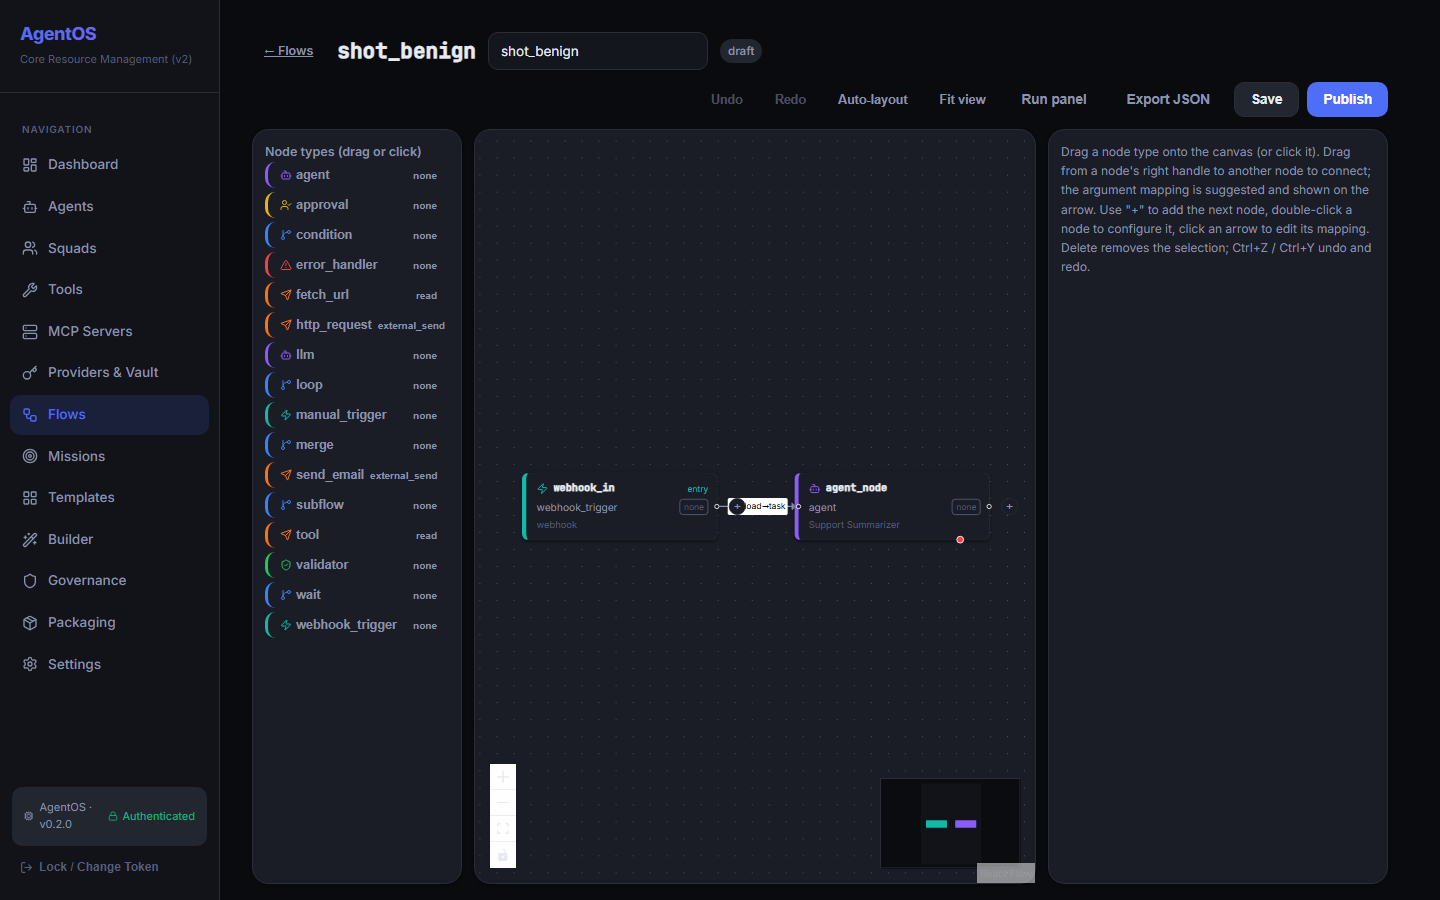
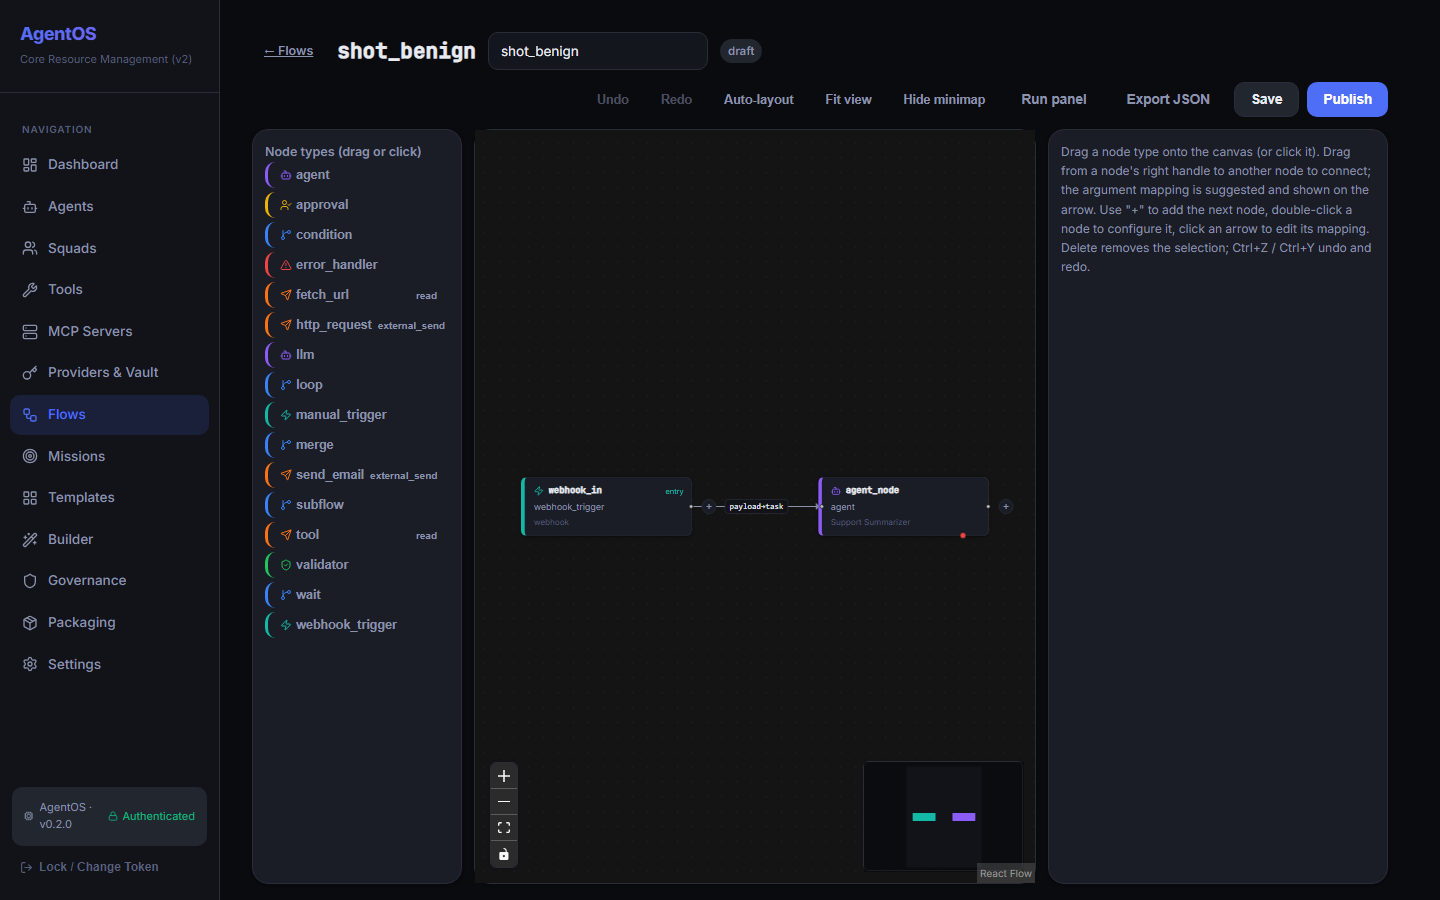
fix(2.4b): builder polish and clearer unpinned-recipient message
Fit view (padding 0.2, max zoom 100%) after nodes are measured on open, after auto-layout and after a publish refusal; dark edge-label chips sized to the text; wider auto-layout spacing so labels are not covered; minimap 160x110 bottom-right with margin and a Hide/Show toggle; zoom controls in the app's dark theme; side-effect badge hidden for 'none' (palette and cards). rules.py: an unpinned email recipient now reads 'the recipient is not fixed (not pinned)' instead of 'external recipient None' (test added). After screenshots retaken. Checks (MOCK): pytest test_static_bypasses + test_v2_node_specs 22 passed; ui lint/build clean; builder Playwright 14 passed.

diff --git a/ui/src/pages/FlowEditor.tsx b/ui/src/pages/FlowEditor.tsx
@@ -8,7 +8,7 @@ import { useCallback, useEffect, useMemo, useRef, useState } from 'react'
 import { Link, useParams, useSearchParams } from 'react-router-dom'
 import { useQuery } from '@tanstack/react-query'
 import {
-  ReactFlow, ReactFlowProvider, Background, Controls, MiniMap, applyEdgeChanges, applyNodeChanges, useReactFlow,
+  ReactFlow, ReactFlowProvider, Background, Controls, MiniMap, applyEdgeChanges, applyNodeChanges, useNodesInitialized, useReactFlow,
   type Connection, type EdgeChange, type NodeChange,
 } from '@xyflow/react'
 import '@xyflow/react/dist/style.css'
@@ -87,6 +87,7 @@ function Editor() {
   const [runStatuses, setRunStatuses] = useState<Record<string, NodeRunStatus>>({})
   const onRunStatuses = useCallback((s: Record<string, NodeRunStatus>) => setRunStatuses(s), [])
   const history = useRef(new History<GraphState>())
+  const [showMinimap, setShowMinimap] = useState(true)
   const [, setHistoryTick] = useState(0)
 
   useEffect(() => {
@@ -107,7 +108,19 @@ function Editor() {
     setLoops(f.loops ?? {})
     setStatus(f.status)
     setLoaded(true)
+    setPendingFit(true)
   }, [loaded, isNew, specsQ.data, flowQ.data, specs])
+
+  // Centre the flow at a readable size (never zoomed in beyond 100%) once xyflow has measured the nodes.
+  const nodesInitialized = useNodesInitialized()
+  const [pendingFit, setPendingFit] = useState(false)
+  useEffect(() => {
+    if (pendingFit && nodesInitialized) {
+      setPendingFit(false)
+      // Short delay so a canvas resize (e.g. the violation table appearing) is measured first.
+      window.setTimeout(() => void rf.fitView({ padding: 0.2, maxZoom: 1 }), 40)
+    }
+  }, [pendingFit, nodesInitialized, rf])
 
   // ---- history (undo/redo) --------------------------------------------------
   const graphRef = useRef<GraphState>({ nodes, edges, entrypoint, loops })
@@ -313,7 +326,7 @@ function Editor() {
   }
   const doLayout = () => {
     commit(g => ({ ...g, nodes: autoLayout(g.nodes, g.edges) }))
-    window.setTimeout(() => rf.fitView({ padding: 0.2 }), 50)
+    setPendingFit(true)
   }
 
   // ---- save / publish / export ----------------------------------------------
@@ -371,6 +384,7 @@ function Editor() {
       if (err instanceof PublishRefusedError) {
         setViolations(err.violations)
         setMessage({ kind: 'error', text: `Publish refused: ${err.violations.length} security violation(s).` })
+        setPendingFit(true) // the violation table shrinks the canvas: keep the highlighted path in view
       } else {
         setMessage({ kind: 'error', text: `Publish failed: ${apiErrorMessage(err)}` })
       }
@@ -429,7 +443,10 @@ function Editor() {
           <button className="btn btn-ghost btn-sm" data-testid="undo" onClick={undo} disabled={!history.current.canUndo} title="Undo (Ctrl+Z)">Undo</button>
           <button className="btn btn-ghost btn-sm" data-testid="redo" onClick={redo} disabled={!history.current.canRedo} title="Redo (Ctrl+Y)">Redo</button>
           <button className="btn btn-ghost btn-sm" data-testid="auto-layout" onClick={doLayout} disabled={!nodes.length}>Auto-layout</button>
-          <button className="btn btn-ghost btn-sm" data-testid="fit-view" onClick={() => rf.fitView({ padding: 0.2 })}>Fit view</button>
+          <button className="btn btn-ghost btn-sm" data-testid="fit-view" onClick={() => rf.fitView({ padding: 0.2, maxZoom: 1 })}>Fit view</button>
+          <button className="btn btn-ghost btn-sm" data-testid="toggle-minimap" aria-pressed={showMinimap} onClick={() => setShowMinimap(v => !v)}>
+            {showMinimap ? 'Hide minimap' : 'Show minimap'}
+          </button>
           <button className="btn btn-ghost" data-testid="toggle-run-panel" onClick={() => setMode(m => (m === 'edit' ? 'run' : 'edit'))}>
             {mode === 'edit' ? 'Run panel' : 'Back to editing'}
           </button>
@@ -493,16 +510,20 @@ function Editor() {
               // Fit only when opening an existing flow; a new canvas stays at zoom 1 so drops land under the cursor.
               fitView={!isNew}
               fitViewOptions={{ maxZoom: 1, padding: 0.2 }}
+              colorMode="dark"
             >
               <Background />
               <Controls />
-              <MiniMap
-                pannable
-                zoomable
-                style={{ background: 'var(--bg-surface)', border: '1px solid var(--border)', width: 140, height: 90 }}
-                maskColor="rgba(0,0,0,0.35)"
-                nodeColor={n => CATEGORY_STYLE[categoryOf((n as CanvasNode).data.def.type)].color}
-              />
+              {showMinimap && (
+                <MiniMap
+                  pannable
+                  zoomable
+                  position="bottom-right"
+                  style={{ background: 'var(--bg-surface)', border: '1px solid var(--border)', borderRadius: 6, width: 160, height: 110, margin: 12 }}
+                  maskColor="rgba(0,0,0,0.35)"
+                  nodeColor={n => CATEGORY_STYLE[categoryOf((n as CanvasNode).data.def.type)].color}
+                />
+              )}
             </ReactFlow>
           </BuilderActions.Provider>
           {picker && (
@@ -587,7 +608,7 @@ function Palette({ specs, onAdd }: { specs: NodeSpecInfo[]; onAdd: (s: NodeSpecI
               onClick={() => onAdd(s)}
             >
               <span className="flex items-center gap-1"><Icon size={12} color={st.color} />{s.type}</span>
-              <span className="text-muted" style={{ fontSize: 10 }}>{s.side_effect}</span>
+              {s.side_effect !== 'none' && <span className="text-muted" style={{ fontSize: 10 }}>{s.side_effect}</span>}
             </button>
           )
         })}

diff --git a/ui/src/flow/canvasParts.tsx b/ui/src/flow/canvasParts.tsx
@@ -98,13 +98,15 @@ export function FlowNodeView({ id, data, selected }: NodeProps<CanvasNode>) {
       </div>
       <div style={{ display: 'flex', justifyContent: 'space-between', gap: 8, marginTop: 3 }}>
         <span style={{ color: 'var(--text-secondary)' }}>{type}</span>
-        <span
-          data-testid={`side-effect-${id}`}
-          style={{ color: SIDE_EFFECT_COLOR[sideEffect] ?? 'var(--text-muted)', fontSize: 10, border: '1px solid currentColor', borderRadius: 4, padding: '0 4px' }}
-          title="side-effect class"
-        >
-          {sideEffect}
-        </span>
+        {sideEffect !== 'none' && (
+          <span
+            data-testid={`side-effect-${id}`}
+            style={{ color: SIDE_EFFECT_COLOR[sideEffect] ?? 'var(--text-muted)', fontSize: 10, border: '1px solid currentColor', borderRadius: 4, padding: '0 4px' }}
+            title="side-effect class"
+          >
+            {sideEffect}
+          </span>
+        )}
       </div>
       {summary && (
         <div data-testid={`node-summary-${id}`} className="truncate" style={{ marginTop: 3, color: 'var(--text-muted)', fontSize: 11 }}>
@@ -167,6 +169,12 @@ export function decorateEdge(e: CanvasEdge, selected: boolean): CanvasEdge {
     className: [d?.violated ? 'violated' : '', loop ? 'loop-edge' : '', onError ? 'error-edge' : ''].filter(Boolean).join(' '),
     label: loop ? `loop ≤${loop.max_iterations}${mapping ? ` · ${mapping}` : ''}` : mapping || undefined,
     animated: !!loop,
+    // Dark-theme label chip sized to its text (SVG text, so it is never truncated).
+    labelStyle: { fill: 'var(--text-primary)', fontSize: 11, fontFamily: 'ui-monospace, monospace' },
+    labelShowBg: true,
+    labelBgStyle: { fill: 'var(--bg-surface)', stroke: d?.violated ? 'var(--accent-red)' : 'var(--border)', strokeWidth: 1 },
+    labelBgPadding: [6, 3] as [number, number],
+    labelBgBorderRadius: 4,
     markerEnd: { type: MarkerType.ArrowClosed, color: stroke },
     style: {
       stroke,

diff --git a/ui/src/flow/builderModel.ts b/ui/src/flow/builderModel.ts
@@ -154,7 +154,8 @@ export const NODE_H = 96
 /** Left-to-right dagre layout; returns a new node array with updated positions. */
 export function autoLayout(nodes: CanvasNode[], edges: CanvasEdge[]): CanvasNode[] {
   const g = new dagre.graphlib.Graph()
-  g.setGraph({ rankdir: 'LR', nodesep: 40, ranksep: 90, marginx: 20, marginy: 20 })
+  // ranksep leaves room for the "+" buttons and the mapping label between columns.
+  g.setGraph({ rankdir: 'LR', nodesep: 50, ranksep: 170, marginx: 20, marginy: 20 })
   g.setDefaultEdgeLabel(() => ({}))
   for (const n of nodes) g.setNode(n.id, { width: NODE_W, height: NODE_H })
   for (const e of edges) if (e.data?.loop === undefined) g.setEdge(e.source, e.target)

diff --git a/ui/src/index.css b/ui/src/index.css
@@ -612,3 +612,22 @@ tr:hover td { background: var(--bg-hover); }
   0%, 100% { opacity: 1; }
   50% { opacity: 0.5; }
 }
+
+/* Flow builder: zoom controls in the app's dark theme (2.4b) */
+.react-flow__controls {
+  border: 1px solid var(--border);
+  border-radius: var(--radius-sm);
+  overflow: hidden;
+  box-shadow: var(--shadow-sm);
+}
+.react-flow__controls-button {
+  background: var(--bg-card);
+  color: var(--text-primary);
+  border-bottom: 1px solid var(--border);
+}
+.react-flow__controls-button:hover {
+  background: var(--bg-hover);
+}
+.react-flow__controls-button svg {
+  fill: currentColor;
+}

diff --git a/agentos/flows/rules.py b/agentos/flows/rules.py
@@ -157,8 +157,12 @@ def evaluate_sink_argument_rule(
                     target_arg=arg_name,
                     path=path,
                     reason=(
-                        f"Untrusted body cannot be sent to external recipient {pinned_to_val!r}. "
-                        "Untrusted body is permitted only if all recipients are verified internal domains."
+                        (
+                            f"Untrusted body cannot be sent to external recipient {pinned_to_val!r}. "
+                            if pinned_to_val
+                            else "Untrusted body cannot be sent: the recipient is not fixed (not pinned). "
+                        )
+                        + "Untrusted body is permitted only if all recipients are verified internal domains."
                     ),
                 )
             )

diff --git a/agentos_server/tests/test_v2_node_specs.py b/agentos_server/tests/test_v2_node_specs.py
@@ -172,3 +172,6 @@ async def test_publish_refusal_violation_format_is_stable(client):
         assert isinstance(v["path"], list) and all(isinstance(p, str) for p in v["path"])
         assert isinstance(v["reason"], str) and v["reason"]
     assert any(v["node_id"] == "agent_node" for v in detail["violations"])
+    # Unpinned recipient: the reason says so instead of "external recipient None".
+    body = next(v for v in detail["violations"] if v["target_arg"] == "send_email.body")
+    assert "recipient is not fixed (not pinned)" in body["reason"] and "None" not in body["reason"]

diff --git a/docs/evidence/2.4b.md b/docs/evidence/2.4b.md
@@ -48,7 +48,7 @@ Builder e2e count: 9 → 14.
 1. Unsaved-changes protection covers browser navigation and in-app link clicks; programmatic navigation (none exists in the editor today) would not be intercepted. Moving to a data router (`createBrowserRouter` + `useBlocker`) is a possible follow-up.
 2. Undo/redo covers graph edits (add, remove, connect, rename, config, pinned args, mapping, drag moves, layout); the flow name field is not part of the history.
 3. Auto-mapping is a suggestion only; it does not change security rules (the publish gate still decides).
-4. On a new flow the canvas starts at zoom 1 (no fit) so drops land under the cursor; existing flows fit with a max zoom of 1, which can leave a small flow near the canvas edge (visible in the after screenshots).
+4. On a new flow the canvas starts at zoom 1 (no fit) so drops land under the cursor. Existing flows, auto-layout and a publish refusal re-fit the view (padding 0.2, never above 100%) once nodes are measured (polish commit; screenshots retaken).
 5. Dragging between handles has no keyboard equivalent other than the drawer's "Connect output to…".
 
 ## (f) Reproduce
